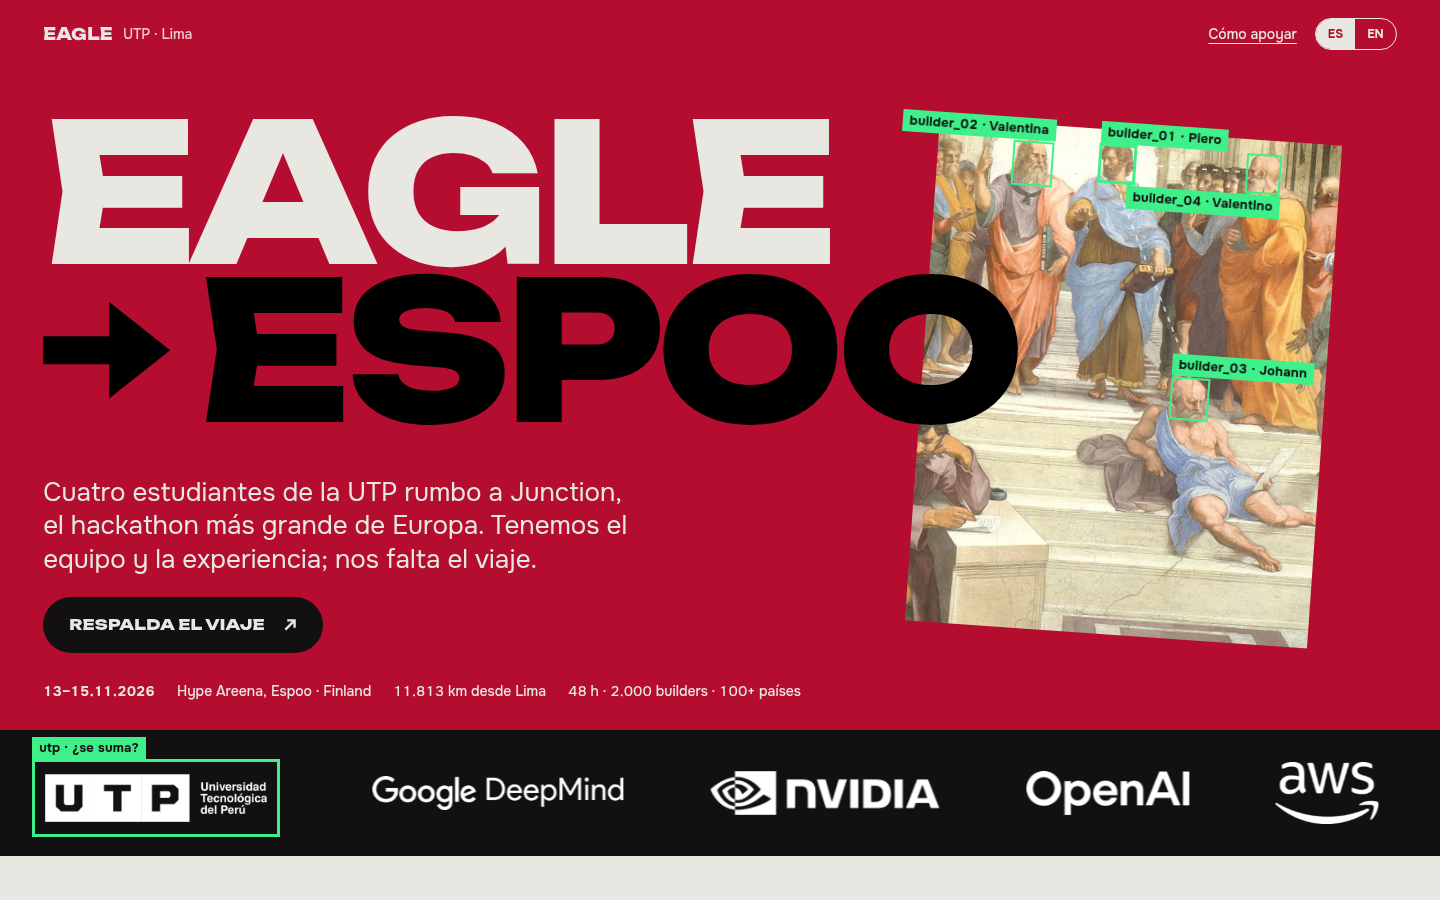
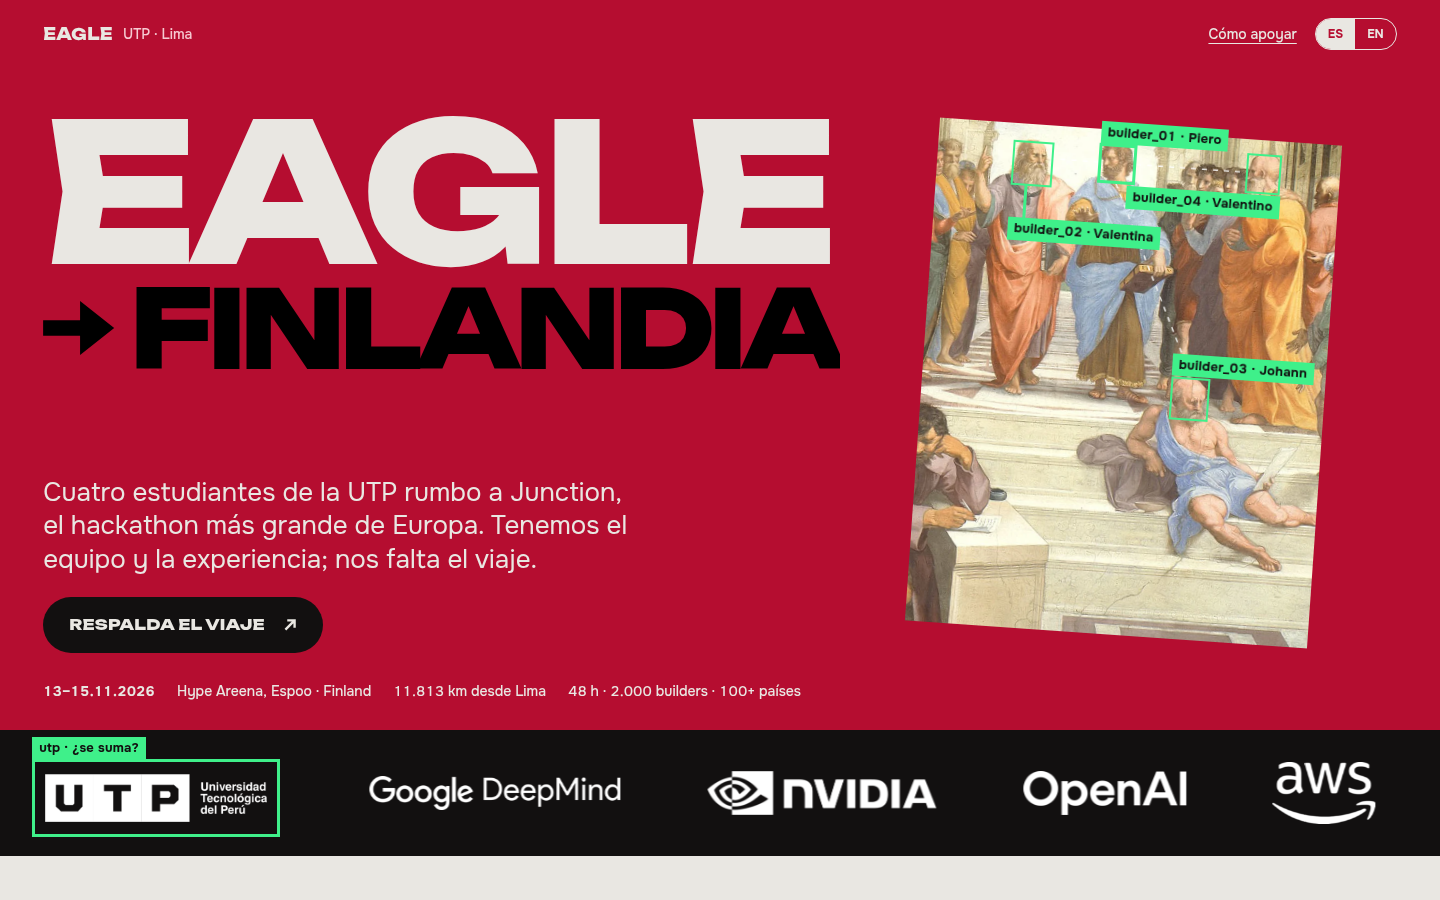
Portada: EAGLE → FINLANDIA

diff --git a/index.html b/index.html
@@ -3,12 +3,12 @@
 <head>
 <meta charset="utf-8">
 <meta name="viewport" content="width=device-width, initial-scale=1, viewport-fit=cover">
-<title>Eagle → Espoo</title>
+<title>Eagle → Finlandia</title>
 <meta name="description" content="Equipo Eagle (UTP, Lima) rumbo a Junction 2026 en Espoo, Finlandia: el hackathon más grande de Europa.">
 <meta name="theme-color" content="#b50d30">
 <link rel="icon" href="favicon.svg" type="image/svg+xml">
 <meta property="og:type" content="website">
-<meta property="og:title" content="Eagle → Espoo · Junction 2026">
+<meta property="og:title" content="Eagle → Finlandia · Junction 2026">
 <meta property="og:description" content="Cuatro estudiantes de la UTP rumbo al hackathon más grande de Europa.">
 <meta property="og:image" content="https://eagle-junction-2026.vercel.app/docs/preview-desktop.png">
 <meta property="og:url" content="https://eagle-junction-2026.vercel.app">
@@ -71,7 +71,7 @@ h1,h2,h3{margin:0;font-family:var(--f-display);font-weight:800;text-transform:up
 .statement{position:relative;z-index:3;font-size:clamp(64px,13.4vw,236px);line-height:.82;letter-spacing:-.035em}
 .statement span{display:block}
 .statement .l1{color:var(--paper)}
-.statement .l2{color:var(--black);display:flex;align-items:center;gap:.08em}
+.statement .l2{color:var(--black);display:flex;align-items:center;gap:.08em;font-size:.56em;margin-top:.12em}
 .statement .l2 .arw{width:.66em;height:.5em;flex:none;margin-right:.06em}
 .reveal{display:block;animation:rise .9s var(--ease-out) both}
 .l2 .reveal{animation-delay:.08s}
@@ -360,9 +360,9 @@ h1,h2,h3{margin:0;font-family:var(--f-display);font-weight:800;text-transform:up
   </div>
 
   <div class="stage">
-    <h1 class="statement" aria-label="Eagle a Espoo">
+    <h1 class="statement" aria-label="Eagle a Finlandia">
       <span class="l1"><span class="reveal">EAGLE</span></span>
-      <span class="l2"><span class="reveal" style="display:flex;align-items:center;gap:.08em"><svg class="arw" viewBox="0 0 100 76" aria-hidden="true"><path fill="currentColor" d="M0 27h52V0l48 38-48 38V49H0z"/></svg>ESPOO</span></span>
+      <span class="l2"><span class="reveal" style="display:flex;align-items:center;gap:.08em"><svg class="arw" viewBox="0 0 100 76" aria-hidden="true"><path fill="currentColor" d="M0 27h52V0l48 38-48 38V49H0z"/></svg>FINLANDIA</span></span>
     </h1>
 
     <figure class="fragment">

diff --git a/README.md b/README.md
@@ -1,13 +1,13 @@
 <div align="center">
 
-# EAGLE → ESPOO
+# EAGLE → FINLANDIA
 
 **Cuatro estudiantes de la UTP rumbo a Junction 2026, el hackathon más grande de Europa.**<br>
 <sub>Four UTP students heading to Junction 2026, Europe's biggest hackathon · 13–15.11.2026 · Hype Areena, Espoo, Finland</sub>
 
 <br>
 
-<img src="docs/preview-desktop.png" alt="Portada de la web: EAGLE → ESPOO sobre fondo carmesí, con un fragmento de La Escuela de Atenas marcado con cajas de detección" width="100%">
+<img src="docs/preview-desktop.png" alt="Portada de la web: EAGLE → FINLANDIA sobre fondo carmesí, con un fragmento de La Escuela de Atenas marcado con cajas de detección" width="100%">
 
 <br>
 
